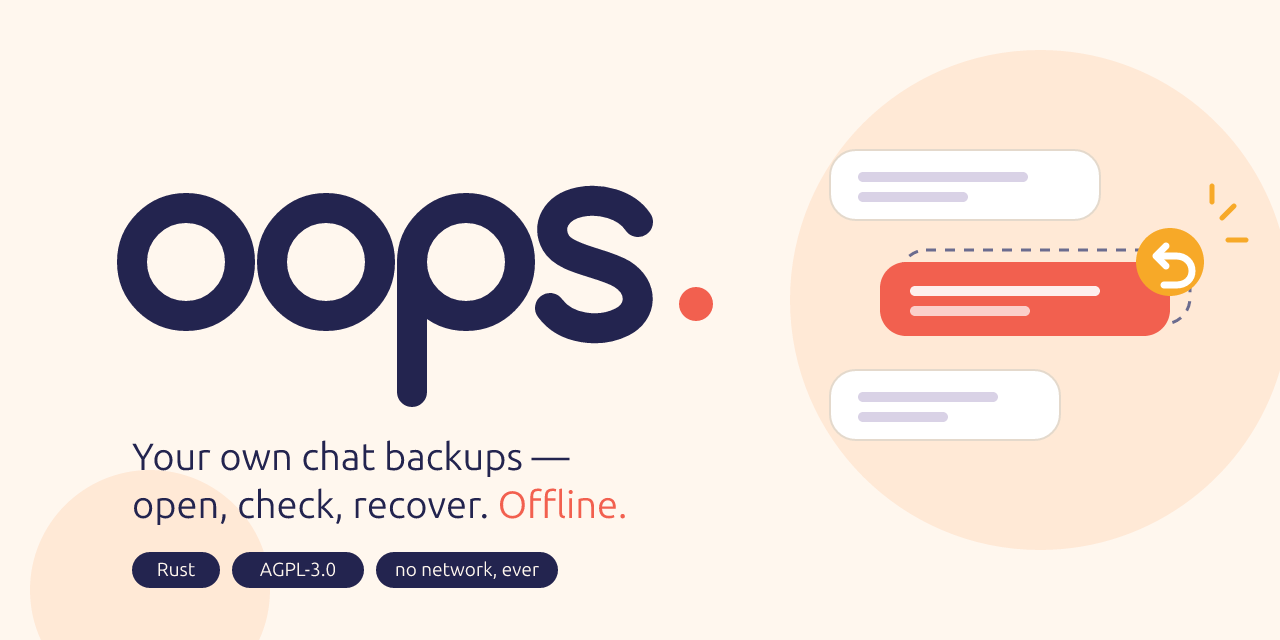
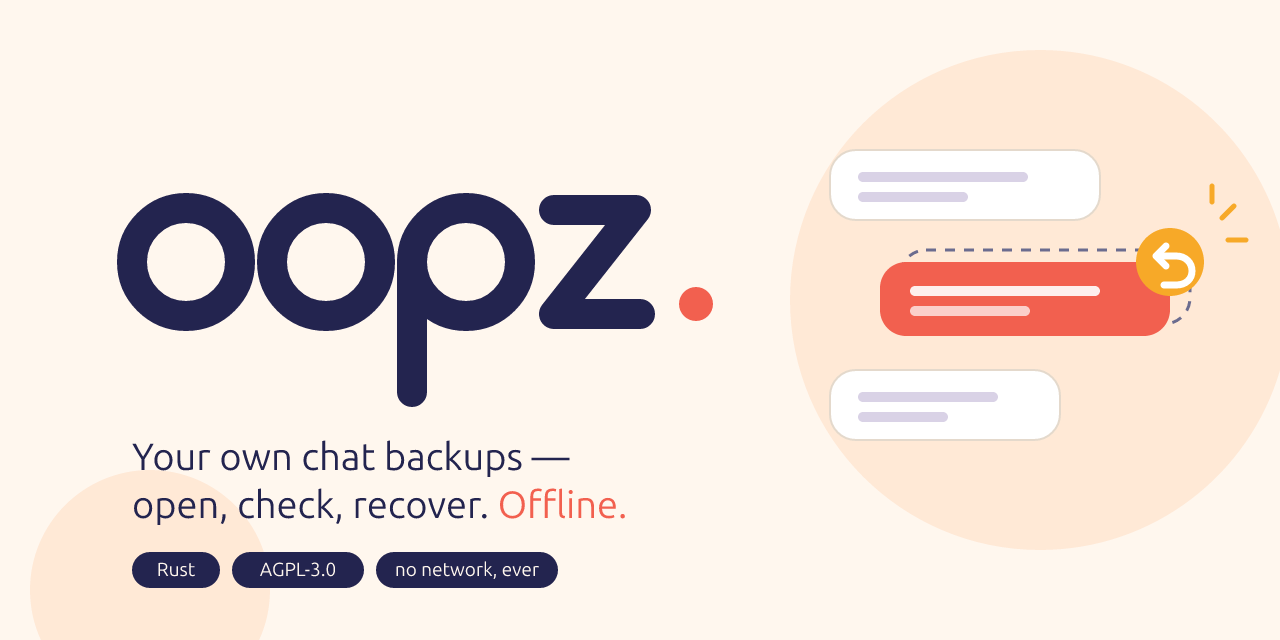
assets: the oopz wordmark, social preview and demo
The wordmark draws a z where the s was, in the same strokes, with the coral dot and
the chat bubbles kept; the demo types oopz commands over the same synthetic output.

Changed region(s): [[0.4062, 0.2812, 0.5312, 0.5312]]

diff --git a/assets/make_assets.py b/assets/make_assets.py
@@ -4,7 +4,7 @@
     python3 assets/make_assets.py
     pnpm dlx @resvg/resvg-js-cli --fit-width 1280 assets/banner-light.svg assets/social-preview.png
 
-The demo replays a real session on the synthetic fixtures (the `fixtures` feature of the `oops` crate: invented
+The demo replays a real session on the synthetic fixtures (the `fixtures` feature of the `oopz` crate: invented
 people, test keys); its output is copied verbatim from that run, trimmed where marked with "…". Never paste output
 from a real backup here.
 """
@@ -37,8 +37,7 @@ def banner_body() -> str:
     <circle cx="326" cy="262" r="54"/>
     <circle cx="466" cy="262" r="54"/>
     <path d="M412 262 V392"/>
-    <path d="M638 222 C626 204 600 198 580 202 C556 207 546 226 556 243 C566 260 602 262 622 274
-             C644 288 642 312 622 322 C600 333 566 330 550 308"/>
+    <path d="M554 210 H636 L554 314 H640"/>
   </g>
   <circle class="coral" cx="696" cy="304" r="17"/>
 
@@ -91,7 +90,7 @@ def css(t: dict) -> str:
 
 def banner(style: str) -> str:
     return (f'<svg xmlns="http://www.w3.org/2000/svg" width="1280" height="640" viewBox="0 0 1280 640" '
-            f'role="img" aria-label="oops: your own chat backups, open, check, recover. Offline.">\n'
+            f'role="img" aria-label="oopz: your own chat backups, open, check, recover. Offline.">\n'
             f"  <style>{style}</style>{banner_body()}</svg>\n")
 
 
@@ -100,15 +99,15 @@ def banner(style: str) -> str:
 K = "64-digit {} key (not shown): "
 # (command lines, output lines) per screen; output copied from a run on the synthetic fixtures.
 SCREENS = [
-    (["oops backups --dir Databases/"],
+    (["oopz backups --dir Databases/"],
      [("dim", K.format("backup")),
       ("ok", "msgstore.db.crypt15  0 MB  ok: 2 chats, 19 messages, last 2023-11-14")]),
-    (["oops chats --backup Databases/msgstore.db.crypt15"],
+    (["oopz chats --backup Databases/msgstore.db.crypt15"],
      [("dim", K.format("backup")),
       ("head", " chat  who                   messages  last message"),
       ("", "    1  contact ••••001             18  2023-11-14"),
       ("", "    2  group ••••001                1  2023-11-14")]),
-    (["oops restore --source ana.crypt15 --source-chat 1 \\",
+    (["oopz restore --source ana.crypt15 --source-chat 1 \\",
       "    --target ben.crypt15 --target-chat 2 --out ben-restored.crypt15"],
      [("dim", K.format("source")),
       ("dim", K.format("target")),
@@ -123,7 +122,7 @@ SCREENS = [
       ("ok", "check other chats and the chat's own messages: identical, in order"),
       ("dim", "  …"),
       ("accent", "written: ben-restored.crypt15 (5331 bytes)"),
-      ("", "next: oops chat-facts --backup ben-restored.crypt15 --chat 2")]),
+      ("", "next: oopz chat-facts --backup ben-restored.crypt15 --chat 2")]),
 ]
 
 FS, LH, CW = 15, 22, 9.0  # font size, line height, forced character width (textLength) for commands
@@ -197,11 +196,11 @@ def demo() -> str:
             body.append(f'<g class="{cover}"><rect x="{px}" y="{y - FS}" width="{W}" height="{LH}" fill="#15162E"/>'
                         f'<rect class="cur {blink}" x="{px}" y="{y - FS + 1}" width="{CW:.0f}" height="{FS + 3}"/></g></g>')
 
-    return f"""<svg xmlns="http://www.w3.org/2000/svg" xml:space="preserve" width="{W}" height="{H}" viewBox="0 0 {W} {H}" role="img" aria-label="A terminal session: oops checks a folder of backups, lists the chats in one (masked ids), and restores a lost chat into a new, checked backup. Synthetic data.">
+    return f"""<svg xmlns="http://www.w3.org/2000/svg" xml:space="preserve" width="{W}" height="{H}" viewBox="0 0 {W} {H}" role="img" aria-label="A terminal session: oopz checks a folder of backups, lists the chats in one (masked ids), and restores a lost chat into a new, checked backup. Synthetic data.">
 <style>{"".join(style)}</style>
 <rect width="{W}" height="{H}" rx="14" fill="#15162E"/>
 <circle cx="26" cy="22" r="6" fill="#FF7565"/><circle cx="46" cy="22" r="6" fill="#FFB940"/><circle cx="66" cy="22" r="6" fill="#8FD9A8"/>
-<text x="{W / 2}" y="27" text-anchor="middle" class="dim" style="font-size:13px">oops — synthetic backups, test keys</text>
+<text x="{W / 2}" y="27" text-anchor="middle" class="dim" style="font-size:13px">oopz — synthetic backups, test keys</text>
 {chr(10).join(body)}
 <rect x="0.5" y="0.5" width="{W - 1}" height="{H - 1}" rx="14" fill="none" stroke="#34366A"/>
 </svg>
